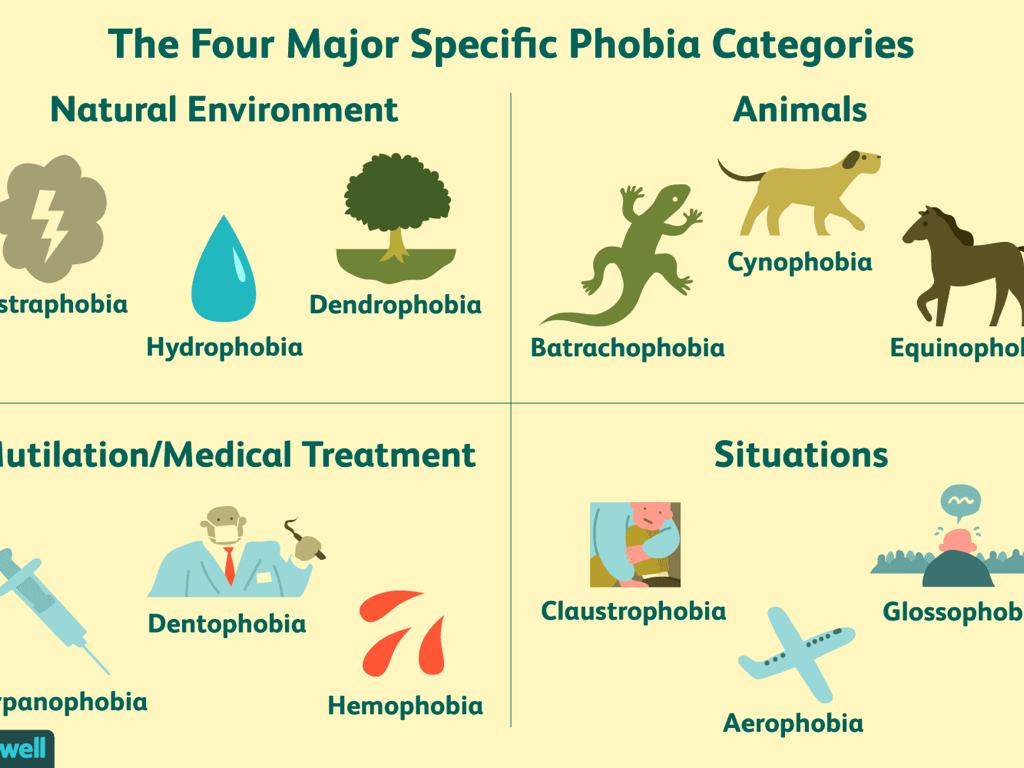
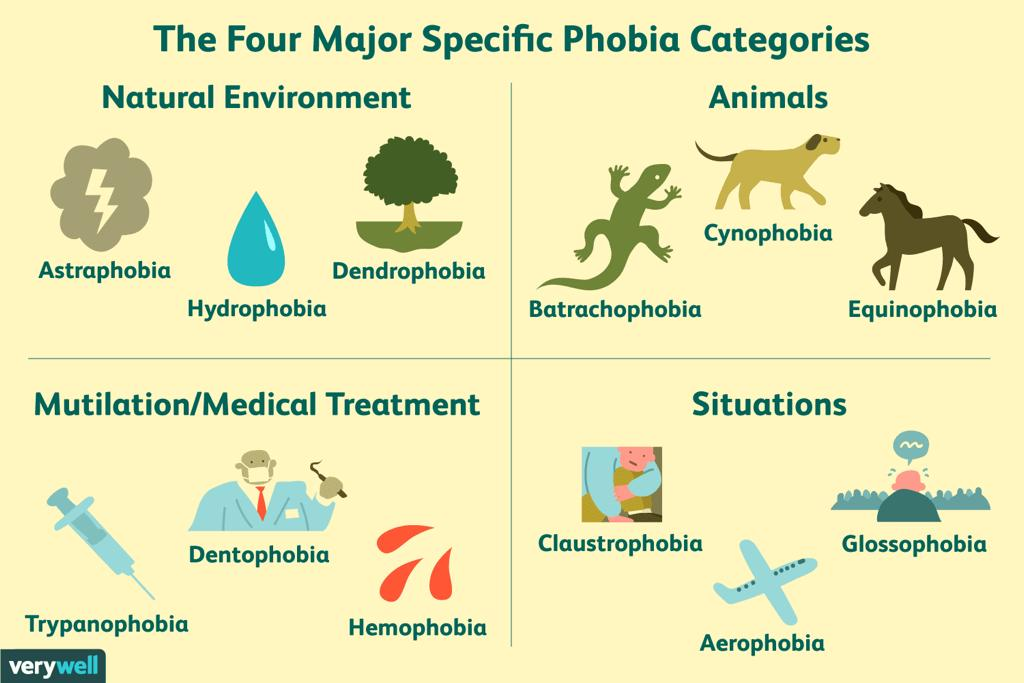
shortened it alitleeeee

diff --git a/anxiety.html b/anxiety.html
@@ -106,10 +106,6 @@
 									<li>People may spend the day carrying out compulsions which can cause them to be <b>unable to leave the house</b></li>
 									<li>Some other people with OCD may also carry out their compulsions in secret or avoid social situations so they can carry out their compulsions without trouble</li>
 								</ul>
-								<blockquote>OCD affects both men and women <b>equally</b>
-									<br><br>
-									Other disorders may exist along with OCD such as <a href="anxiety.html">anxiety disoders</a>, <a href="eating.html">eating disorders</a>, <a href="https://www.mayoclinic.org/diseases-conditions/tourette-syndrome/symptoms-causes/syc-20350465#:~:text=Tourette%20(too%2DRET)%20syndrome,unusual%20sounds%20or%20offensive%20words.">tourette syndrome</a>, <a href="stress.html">depression</a> and more :) 
-								</blockquote>
 							<p>credits to <a href="https://www.nimh.nih.gov/health/topics/obsessive-compulsive-disorder-ocd/index.shtml">NIH ( national institute of mental health )</a>, <a href="https://www.ocduk.org/ocd/impact-of-ocd/#:~:text=OCD%20can%20affect%20people%20in,of%20distress%20from%20obsessive%20thoughts">OCDuk</a></p>
 								
 							<!--PANIC DISORDER-->
@@ -130,10 +126,9 @@
 								<h3>Symptoms</h3>
 								<span class="image main"><a href="https://www.verywellmind.com/top-symptoms-of-panic-attacks-2584270"><img src="images/panic_symptoms.png" alt="" /></a></span>
 								<sup><a href="https://www.verywellmind.com/top-symptoms-of-panic-attacks-2584270"> image credits !</a></sup>
-								<blockquote>
-								Panic disorders often happen without warning and result in physical symptoms like chest pain, shortness of breath, sweating, shaking, and dizziness. They also may involve feeling dissociated from reality or having a sense of impending doom.
-								<br><br>
-								Normally, an attack lasts less than 20 minutes.</blockquote>
+								<p>Panic disorders often happen without warning and result in physical symptoms like chest pain, shortness of breath, sweating, shaking, and dizziness. They also may involve feeling dissociated from reality or having a sense of impending doom.
+								</p>
+								<p>Normally, an attack lasts less than 20 minutes.</p>
 							<h3>how it affects their life</h3>
 								<p>Panic disorder can interfere a lot with daily life, causing people to miss work, go for many doctor visits, and avoid situations where they fear they might experience a panic attack. </p>
 							<blockquote>Panic attacks can be similarly associated with other mental health conditions, including eating disorders, personality disorders, and substance-related conditions
@@ -149,18 +144,8 @@
 								<p><b>Specific phobias</b> are the overwhelming and unreasonable fears of objects // situations that pose little real danger but provoke anxiety and avoidance. Specific phobias are <b>long-lasting</b> and cause intense physical and psychological reactions which can affect one’s daily life in terms of their ability to function normally.</p>
 								
 								<h3>Categories of specific phobias ( fear of~ )</h3>
-									<ul>
-										<li>Animal <i>( zoophobia )</i>: </li>
-											<p>Arachnophobia <i>( spiders )</i>, Ophidiophobia <i>( snakes )</i>, Cynophobia <i>( dogs )</i></p>
-										<li>Specific situations:</li>
-											<p>Aviophobia <i>( flying )</i>, Agoraphobia<i> ( in a situation where escape is difficult)</i>, Claustrophobia <i>( confined // crowded spaces, eg. elevators )</i></p>
-										<li>Natural environment: </li>
-											<p>Astraphobia<i> ( thunder + lightning )</i>, Hydrophobia<i> ( water )</i></p>
-										<li>Blood-injection-injury: </li>
-											<p>Hemophobia <i>( blood )</i>, Trypanophobia<i>( medical procedures; injections, operations )</i></p>
-										<li>Other phobias:</li>
-											<p>Acrophobia <i>( heights )</i>, Glossophobia <i>( public speaking )</i>, Coulrophobia<i> ( clowns )</i></p>
-								</ul>
+								<span class="image main"><img src="images/phobia_types.jpeg" alt="" /></span>
+								<sub><a href="https://www.verywellmind.com/list-of-phobias-2795453">credits</a></sub>
 								<h3>Causes</h3>
 									<ul>
 										<li>Negative experience, trauma</li>
@@ -214,11 +199,7 @@
 									</ul>
 								<h3>how it affects their life</h3>
 								<P>Social anxiety disorder prevents you from living your life. You'll avoid situations that most people consider “normal.” You might even have a hard time understanding how others can handle them so easily. When you avoid all or most social situations, it affects your personal relationships</P>
-							<blockquote>Approximately 40% of social phobias appear before the age of ten, and 95% before the age of twenty. 
-								<br>
-								Social Phobia is also associated with fear of performance situations in which embarrassment may occur. 
-								<br>
-								<b>Social Phobia is not shyness.</b></blockquote>
+							<blockquote><b>Social Phobia is not shyness.</b></blockquote>
 							<p>credits to <a href="https://www.healthline.com/health/anxiety/social-phobia">healthline</a>, <a href="https://www.mayoclinic.org/diseases-conditions/social-anxiety-disorder/symptoms-causes/syc-20353561">mayo clinic</a>, <a href="https://www.nimh.nih.gov/health/publications/social-anxiety-disorder-more-than-just-shyness/index.shtml">NIH ( national Institute of mentalhealth )</a> :)</p>
 							
 							<!--generalised anxiety disorder GAD-->
@@ -241,8 +222,7 @@
 								<sup><a href="https://www.verywellmind.com/dsm-5-criteria-for-generalized-anxiety-disorder-1393147">image credit !</a></sup>
 								<h3>how it affects their life</h3>
 								<p>Anxiety can disrupt a person's life by impacting their relationships with others, self-confidence and ability to complete daily tasks at work or school.</p>
-									<blockquote>Women are twice as likely to be affected as men. GAD often co-occurs with major depression</blockquote>
-							<p>credits to <a href="https://www.healthline.com/health/anxiety/generalized-anxiety-disorder">healthline</a></p>
+								<p>credits to <a href="https://www.healthline.com/health/anxiety/generalized-anxiety-disorder">healthline</a></p>
 						<!--
 							<h2 id="social">title</h2>
 							<span class="image main"><img src="images/art_social.jpg" alt="" /></span>
